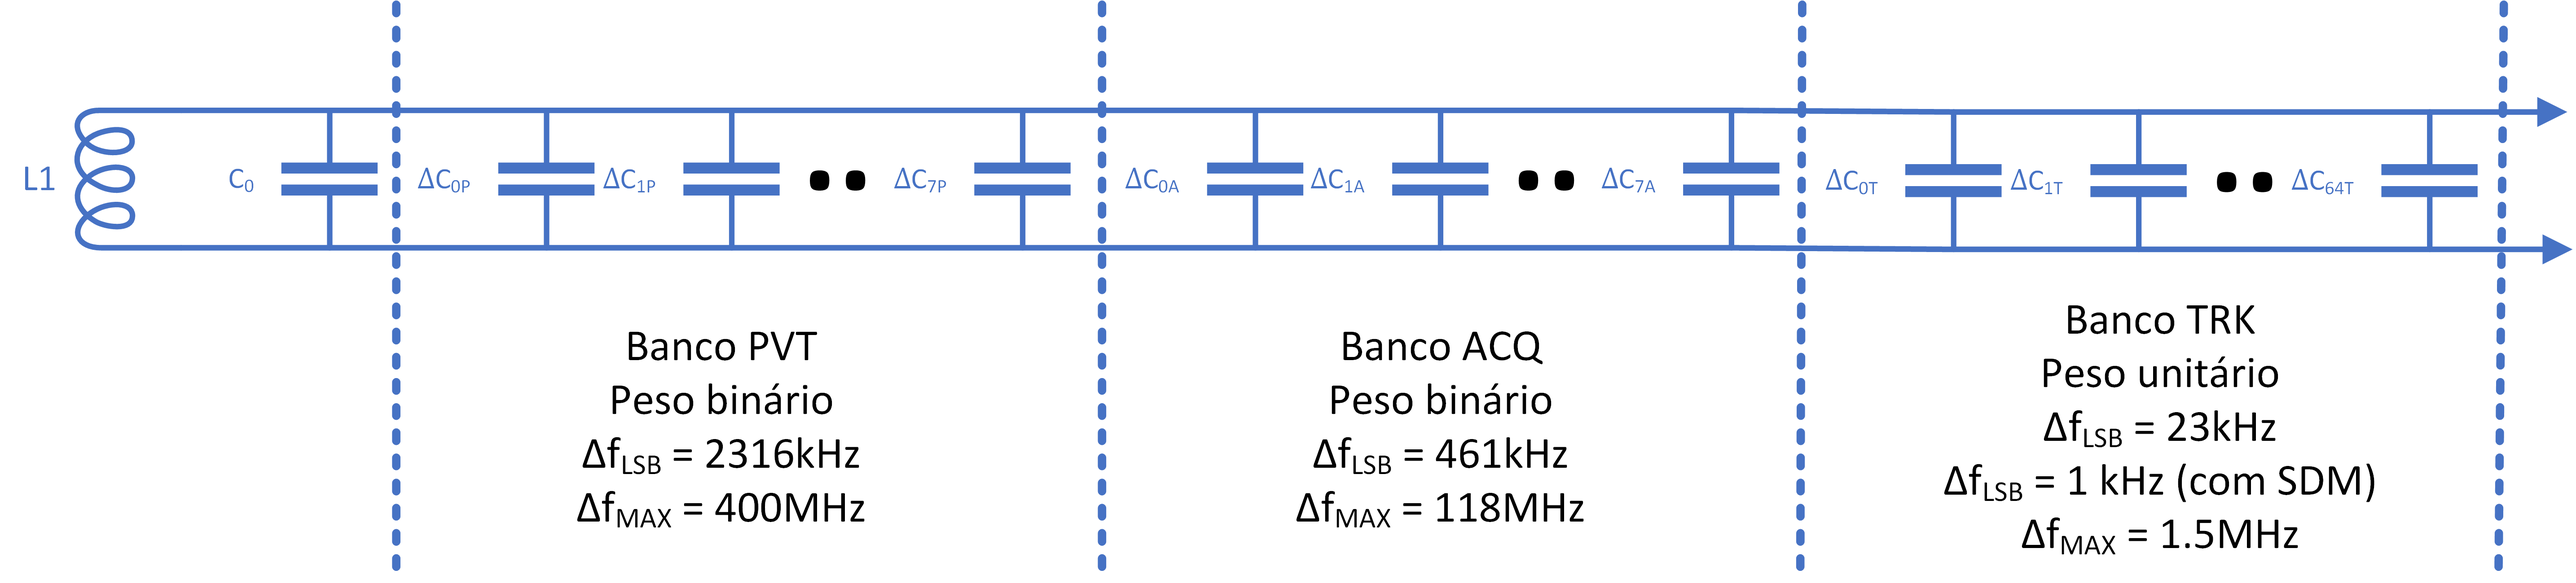
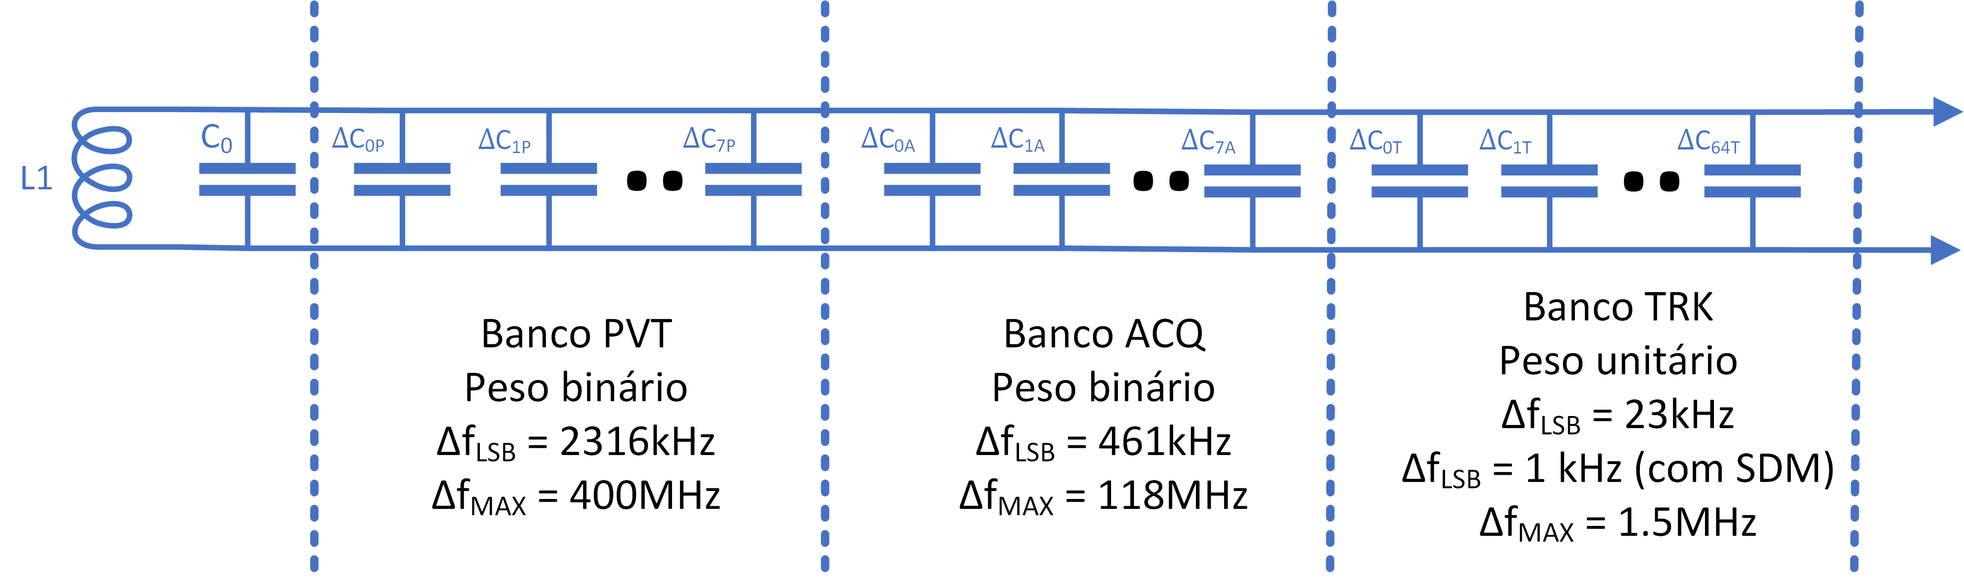
Coreções de texto e melhoria de imagem.

diff --git a/TEX/fundamentacao.tex b/TEX/fundamentacao.tex
@@ -37,7 +37,7 @@ Um dispositivo de comunicação sem fio é composto por dois circuitos principai
 %%%%%%%%%%%%%%%%%%%%%%%%%%%%%%%%%%%%%%%%%%%%%%%%%%%%%%%%%%%%%%%%%%%%%%
 CMOS (\textit{Complementary Metal-Oxide-Semiconductor}) é um processo de fabricação que utiliza silício para criar transistores de efeito de campo (MOSFETs) do tipo p e do tipo n, chamados de PMOS e NMOS, respectivamente. Amplamente utilizado na produção de chips de circuitos integrados, como microprocessadores, microcontroladores e chips de memória, o CMOS também é empregado em circuitos analógicos, como sensores de imagem e dispositivos de comunicação com e sem fio. Sua característica distintiva é o baixo consumo de energia, tornando-o especialmente adequado para dispositivos IoT.
 
-Além disso, o CMOS oferece vantagens em relação a outras tecnologias, como operação em baixas tensões e uma evolução avançada que permite maior densidade de transistores por unidade de área . O tamanho dos transistores é determinado pelos valores de comprimento (L) e largura (W) Figura \ref{fig:nmos_structure}, permitindo um controle mais preciso da corrente que circula por eles\cite{designcmosrazavi2016}. Atualmente, circuitos integrados podem ser fabricados em escala de $3nm$ de acordo com \cite{tsmc}.
+Além disso, o CMOS oferece vantagens em relação a outras tecnologias, como operação em baixas tensões e uma evolução avançada que permite maior densidade de transistores por unidade de área . O tamanho dos transistores é determinado pelos valores de comprimento (L) e largura (W) Figura \ref{fig:nmos_structure}, permitindo um controle mais preciso da corrente que circula por eles \cite{designcmosrazavi2016}. Atualmente, circuitos integrados podem ser fabricados em escala de $3nm$ de acordo com dados da \textit{foundry} \cite{tsmc}.
 
 \begin{figure}[h!]
 	\caption{Estrutura de um NMOS}
@@ -106,7 +106,7 @@ A utilização de uma realimentação negativa no circuito permite um controle t
 	\label{fig:pll_blocks}
 \end{figure}
 
-O PLL utiliza o VCO como elemento central. O sinal de saída do VCO, dividido por um fator N, é comparado com a frequência de referência do TXCO, dividida por R, pelo  \textit{Phase-Detector}. Após a comparação, o sinal resultante passa pelo\textit{Loop filter}, responsável por eliminar ruídos e interferências. A saída do \textit{Loop filter} é uma tensão que controla a tensão aplicada ao VCO, permitindo ajustar e manter a frequência de saída em sincronia com a frequência de referência \cite{barrett_1999_fractionalintegern}.
+O PLL utiliza o VCO como elemento central. O sinal de saída do VCO, dividido por um fator N, é comparado com a frequência de referência do TXCO, dividida por R, pelo  \textit{Phase-Detector}. Após a comparação, o sinal resultante passa pelo \textit{Loop filter}, responsável por eliminar ruídos e interferências. A saída do \textit{Loop filter} é uma tensão que controla a tensão aplicada ao VCO, permitindo ajustar e manter a frequência de saída em sincronia com a frequência de referência \cite{barrett_1999_fractionalintegern}.
 
 Em condições normais, um PLL fornece uma frequência com extrema precisão, no entanto, o tempo de aquisição pode ser longo devido ao processo do detector de fase e frequência em avaliar e gerar sinais com base nas diferenças em relação à referência. Esse tempo de aquisição é especialmente crucial em aplicações de comunicações sem fio que envolvem técnicas como salto de canal (\textit{frequency hopping}), como é o caso do protocolo \textit{Bluetooth}. Nessas situações, a capacidade do PLL de se sincronizar rapidamente com frequências variáveis é essencial para garantir uma transição suave entre os canais e evitar perdas de dados ou conexão.
 %%%%%%%%%%%%%%%%%%%%%%%%%%%%%%%%%%%%%%%%%%%%%%%%%%%%%%%%%%%%%%%%%%%%%%
@@ -142,18 +142,12 @@ Onde, $F$ é $0$ ou $1$.
 %%%%%%%%%%%%%%%%%%%%%%%%%%%%%%%%%%%%%%%%%%%%%%%%%%%%%%%%%%%%%%%%%%%%%%
 \section{ADPLL}
 %%%%%%%%%%%%%%%%%%%%%%%%%%%%%%%%%%%%%%%%%%%%%%%%%%%%%%%%%%%%%%%%%%%%%%
-%O ADPLL \textit{All Digital Phase-Locked-Loop} é um circuito Sintetizador de frequência que ao contrário dos PLLs convencionais é um puramente digital. Em um PLL tradicional o \textit{Loop-Filter} ocupa mais de 50\% da área do chip, enquanto que no ADPLL por ser um circuito digital não necessita de grandes componentes, capacitores, resistores e indutores, reduzindo em grande parte a área ocupada.
-%
-%A utilização de circuito digital se da devido a miniaturização da tecnologia CMOS, permitindo maiores velocidades, maiores frequências, e assim, propiciando o uso de \textit{design} de circuitos digitais em RF. Seu uso traz inúmeros benefícios, entre elas a possibilidade de parametrização do \textit{Loop-Filter} para ajuste de frequência conforme desejado, e sendo o ADPLL totalmente digital não necessita circuitos auxiliar de conversão do sinal digital para analógico ou vice-versa, sendo uma grande vantagem.
-
 
 O ADPLL (\textit{All Digital Phase-Locked-Loop}) é um sintetizador de frequência que se diferencia dos PLLs convencionais por ser um circuito puramente digital. Enquanto um PLL tradicional requer componentes analógicos, como capacitores, resistores e indutores, o ADPLL aproveita os benefícios da miniaturização da tecnologia CMOS, permitindo maiores velocidades e frequências, além de reduzir significativamente a área ocupada no chip.
 
 Para \cite{staszewski2006all} a tecnologia nanométrica do CMOS traz um novo paradigma, a resolução do domínio do tempo de uma transição de borda de sinal digital é superior à resolução de tensão de sinais analógicos. Desta forma o ADPLL pode ser analisado apenas pelas transições dos sinais digitais.
 
 A natureza digital do ADPLL oferece vantagens adicionais, como a parametrização do \textit{Loop-Filter} para ajuste de frequência conforme necessário. Além disso, não são necessários circuitos auxiliares para conversão entre sinais digitais e analógicos, o que representa uma economia de recursos e simplificação do projeto.
-
-%Tanto uma onda sinusoidal quanto uma onda retangular podem ser utilizadas como a frequência de referência do circuito. No entanto, é comum usar uma onda retangular para análise, visto que o circuito é sincronizado e controlado pelas transições do \textit{clock} de referência (FREF), proporcionando uma análise rápida e precisa do comportamento do ADPLL.
 
 A Figura \ref{fig:adpll_block_diagram} mostra o diagrama de blocos de um ADPLL no domínio do tempo, ou seja considerando as transições dos sinais de (FREF) e saída do circuito (DCO). O ADPLL é composto de 4 blocos principais,  \textit{Digital Controlled Oscillator} (DCO), \textit{Time to Digital Converter} (TDC), \textit{Phase Detector} (PD) e o \textit{ digital Loop Filter} (LF). Nas subseções seguintes serão apresentados com mais detalhes cada um dos sub-blocos. 
 
@@ -174,18 +168,7 @@ O circuito do DCO é responsável por gerar o sinal de saída do sintetizador. E
 	\label{eq:fvco_adpll}
 \end{equation}
 
-Por outro lado, o TDC realiza a medição da diferença de tempo entre as bordas de \textit{clock} do sinal do DCO e uma borda de referência, , acumulando esse valor a cada transição do\textit{clock}, da mesma forma que FCW. O detector de fase compara as diferenças entre os acumuladores, que é então utilizado pelo\textit{Loop Filter} para controlar os capacitores do DCO. Essa ação de controle resulta no ajuste da frequência do sinal de saída, permitindo aumentá-la ou reduzi-la conforme necessário.
-
-
-
-%É comumente utilizado uma onda retangular para análise, na Figura \ref{fig:adpll_block_diagram}  o circuito é sincronizado e controlado pelas transições do \textit{clock} de referência (FREF), o que permite uma análise rápida e precisa do comportamento.
-
-%Neste trabalho, optou-se por realizar uma análise focada nas transições do \textit{clock} para estudo e desenvolvimento. 
-
-
-%%%%%%%%%%%%%%%%%%%%%%%%%%%%%%%%%%%%%%%%%%%%%%%%%%%%%%%%%%%%%%%%%%%%%%
-%\textit{Energy Harvesting} 
-%%%%%%%%%%%%%%%%%%%%%%%%%%%%%%%%%%%%%%%%%%%%%%%%%%%%%%%%%%%%%%%%%%%%%%
+Por outro lado, o TDC realiza a medição da diferença de tempo entre as bordas de \textit{clock} do sinal do DCO e uma borda de referência, , acumulando esse valor a cada transição do \textit{clock}, da mesma forma que FCW. O detector de fase compara as diferenças entre os acumuladores, que é então utilizado pelo \textit{Loop Filter} para controlar os capacitores do DCO. Essa ação de controle resulta no ajuste da frequência do sinal de saída, permitindo aumentá-la ou reduzi-la conforme necessário.
 
 %%%%%%%%%%%%%%%%%%%%%%%%%%%%%%%%%%%%%%%%%%%%%%%%%%%%%%%%%%%%%%%%%%%%%%
 \subsection{DCO}
@@ -205,7 +188,7 @@ O DCO é formado por um circuito tanque LC, um indutor fixo e capacitores progra
 
 Transistores em modo varactor são utilizado como capacitores programáveis, pois possuem um ajuste muito pequeno de frequência em relação a varactores de diodo. Quanto menor o valor da capacitância menor é o  passo de frequência de ajuste do DCO, permitindo um ajuste mais fino e melhor performance. 
 
-Transistores do tipo PMOS são comumente utilizados como varactores devido a suas propriedades de isolação do poço. Com os terminais dreno, fonte e corpo (D=S=B) interligados permite que a capacitância seja controlada pelo nível de tensão $VG$ conforme região de operação do transistor, limitada pela capacitância do óxido $(COX)$. A Figura \ref{fig:curva_COX_vbg} mostra a curva de capacitância
+Transistores do tipo PMOS são comumente utilizados como varactores devido a suas propriedades de isolação do poço. Com os terminais dreno, fonte e corpo (D=S=B) interligados permite que a capacitância seja controlada pelo nível de tensão $VG$ conforme a região de operação do transistor, limitada pela capacitância do óxido $(C_{OX})$. A Figura \ref{fig:curva_COX_vbg} mostra a curva de capacitância em relação a tensão aplicada ao terminal gate.
 
 \begin{figure}[h!]
 	\caption{Curva de resposta do varactor D=S=B em relação a $VG$ }
@@ -219,17 +202,6 @@ Transistores do tipo PMOS são comumente utilizados como varactores devido a sua
 O DCO deve ser capaz de gerar um range de frequências com ajuste fino para atender às necessidades de modulação do transceptor. Por exemplo, para o \textit{Bluetooth}, que possui um range de frequências entre $2.402GHz$ e $2.480GHz$, usar apenas 8 bits, um conjunto de 256 capacitores programáveis, resultaria em um passo de frequência muito grosso de aproximadamente $304,67kHz$, o que não é viável para aplicações sem fio e tipos de modulações utilizadas.
 
 Para superar essa limitação, a solução adotada é dividir o banco de capacitores em três partes: modo de Processo-Tensão-Temperatura (PVT), modo de aquisição (ACQ) e modo de caminhada (TRK). Esses modos permitem ajustar o DCO de maneira mais precisa. De acordo com \cite{staszewski2006all}, uma boa relação entre tamanho físico e menor passo de frequência é alcançada atribuindo 8 bits para o modo PVT, 8 bits para o modo ACQ e 6 bits para o modo TRK.
-
-%
-%O DCO deve ser capaz de gerar um range de frequências e um espaçamento entre elas que atenda as especificações de modulação que será utilizado no transceptor. Para o \textit{Bluetooth } que possui um range de frequências entre $2.402GHz$ e $2.480GHz$, se utilizar 8 bits, conjunto de 256 capacitores programáveis, o passo de frequência seria $(2,480GHz - 2,402GHz)/2^8 = 304,67kHz$, o que é muito grosso para aplicações sem fio. Por outro lado se considerar um passo de frequência de $1kHz$ para a banda toda do \textit{Bluetooth }, seriam necessário 17 bits, sendo inviável de fabricação pela extrema dificuldade de casamento dos inúmeros capacitores no \textit{layout}.
-%
-%
-%A alternativa é a divisão do banco de capacitores em três partes, sendo apenas uma acionada por vez. Os modos são chamados de modo de Processo-Tensão-Temperatura  (PVT), modo de aquisição (ACQ) e modo de caminhada (TRK). Para uma boa relação entre tamanho físico e o menor passo de frequência\cite{staszewski2006all} sugere que cada banco possua 8 bits em modo PVT, 8 bits no modo ACQ e 6 bits em TRK.  O modo PVT é o primeiro ser setado, compensando as variações de processo, temperatura e tensão, centralizando o oscilador mais perto da frequência desejada, mas não exata, com variações entre $1$ a $2MHz$. O segundo modo é o ACQ, ajustando a frequência para dentro da banda de interesse, com uma resolução de $\pm 500kHz$ utilizando 8 bits neste banco de capacitores. Por fim o modo TRK é a menor resolução para ajustar a frequência exata utilizada na modulação do sinal dentro do canal utilizado.
-
-%A solução adotada é dividir o banco de capacitores em três partes, ativando apenas uma delas por vez. Esses modos são conhecidos como modo de Processo-Tensão-Temperatura (PVT), modo de aquisição (ACQ) e modo de caminhada (TRK). Para alcançar um equilíbrio adequado entre tamanho físico e menor passo de frequência, de acordo com \cite{staszewski2006all}, sugere-se que cada banco possua 8 bits no modo PVT, 8 bits no modo ACQ e 6 bits no modo TRK.
-
-
-
 
 Na Figura \ref{fig:bank_modos} é apresentado o fluxo de operação dos modos do DCO. Cada modo possui um range de frequência de operação, e a mudança de uma unidade no $OTW$ define o menor passo de frequência,  $\Delta f$ possível em cada modo . Este passo pode ser calculado para cada modo conforme a equação \ref{eq:step_freq_mode}, considerando o range de frequência e o numero de bits em cada um. 
 \begin{equation}
@@ -246,12 +218,6 @@ Na Figura \ref{fig:bank_modos} é apresentado o fluxo de operação dos modos do
 	\label{fig:bank_modos}
 \end{figure}
 
-%
-%Ao iniciar o DCO, o modo PVT é ativado e inicia no centro do range de ajuste com um valor de $OTW=127$, quando o valor é configurado em $0$ corresponde a menor frequência possível e $255$ a mais alta. Ele  executa a compensação de variações de processo, temperatura e tensão, centralizando a frequência do oscilador de forma mais grosseira com variações entre $1$ a $2MHz$.
-%
-%No segundo modo, ACQ, a frequência é ajustada para dentro da banda de interesse, com um passo de frequência médio $\Delta f_A$ com uma resolução de $\pm 500kHz$ variando $OTW$ entre 0 à 255.
-%
-%Por fim, o modo TRK possui a melhor resolução de ajuste, o que permite ajustar com precisão a frequência de saída do oscilador necessária para a modulação do sinal. Para permitir ajustes muito finos como $\pm 1kHz$, $OTW$ pode ser um valor fracionário neste modo. Para isto é utilizado uma topologia similar a do \textit{Fractional-N PLL}, permitindo uma melhor resolução com a implementação de um modulador Sigma Delta (SDM). SDMs são muito utilizados em conversores ADs, analógico para digital, por meio de um modulador com sobre amostragem seguido por um filtro digital/decimador que juntos produzem um sinal de alta resolução \cite{sdmtexas}.
 Ao iniciar o DCO, todos os modos são iniciados no centro do range de ajuste, com um valor de $OTW=127$ para PVT e ACQ e $OTW=33$ para TRK. Configurar $OTW$ como $0$ corresponde à menor frequência possível, enquanto $255$ representa a frequência mais alta. O modo PVT é o primeiro a ser ajustado fazendo a compensação de variações de processo, temperatura e tensão, centralizando a frequência do oscilador de forma mais grosseira, apresentando variações entre $1$ a $2MHz$.
 
 No segundo modo, ACQ, a frequência é ajustada para dentro da banda de interesse com um passo de frequência médio $\Delta f_A$, fornecendo uma resolução de $\pm 500kHz$ ao variar $OTW$ entre 0 e 255.
@@ -260,20 +226,18 @@ Por fim, o modo TRK possui a melhor resolução de ajuste, permitindo ajustar co
 
 
 A Figura \ref{fig:lc_bank_capacitor} apresenta o tanque LC de um DCO projetado para aplicação \textit{Bluetooth}, com a implementação dos três bancos de capacitores. Nos bancos PVT e ACQ cada capacitor representado por um bit possui um mesmo valor conforme o banco que ele pertence, a soma deles em conjunto com o capacitor $C_0$ definirá a frequência. 
-%$C_0$ é um capacitor de valor fixo que defini a máxima frequência do oscilador
-
 
 \begin{figure}[h!]
 	\caption{Tanque LC com banco de capacitores para aplicação \textit{Bluetooth} }
 	\begin{center}
-		\includegraphics[scale=0.6]{img/lc_bank_capacitor.png}
+		\includegraphics[scale=0.8]{img/lc_bank_capacitor.png}
 	\end{center}
 	\fonte{Adaptado de \citeonline{staszewski2006all}.}
 	\label{fig:lc_bank_capacitor}
 \end{figure}
 
 
-Nos bancos de capacitores PVT e ACQ o valor individual de cada capacitor é definido pela equação \ref{eq:c_delta}, na qual leva em consideração a frequência minima e máxima de operação de cada banco. O valor de $C_0$ é igual ao valor de $C_{min}$ do banco PVT, ou seja a máxima frequência do oscilador.
+Nos bancos de capacitores PVT e ACQ o valor individual de cada capacitor é definido pela equação \ref{eq:c_delta}, na qual leva em consideração a frequência minima e máxima de operação de cada banco. O valor de $C_0$ é igual ao valor de $C_{min}$ do banco PVT, ou seja é a máxima frequência do oscilador.
 \begin{equation}
 	C_{max} = \frac{1}{L} \big( \frac{1}{2 \pi f_{min}} \big)^2
 	\label{eq:cmax}
@@ -289,7 +253,7 @@ Nos bancos de capacitores PVT e ACQ o valor individual de cada capacitor é defi
 	\label{eq:c_delta}
 \end{equation}
 
-Após o ajuste do banco PVT a capacitância total é obtida pela equação \ref{eq:c_A_total}, considerando o número de capacitores acionados considerando seus valores e a metade dos capacitores dos bancos ACQ e TRK acionados.
+Após o ajuste do banco PVT a capacitância total é obtida pela equação \ref{eq:c_A_total}, considerando o número de capacitores acionados considerando o valor de cada um e também a metade dos capacitores dos bancos ACQ e TRK acionados.
 
 \begin{equation}
 	C^P = C_0 + C^A_{half} + C^T_{half} + \sum_{k=0}^{7} \bar{d}_k \cdot 2^k * 	\Delta C^P
